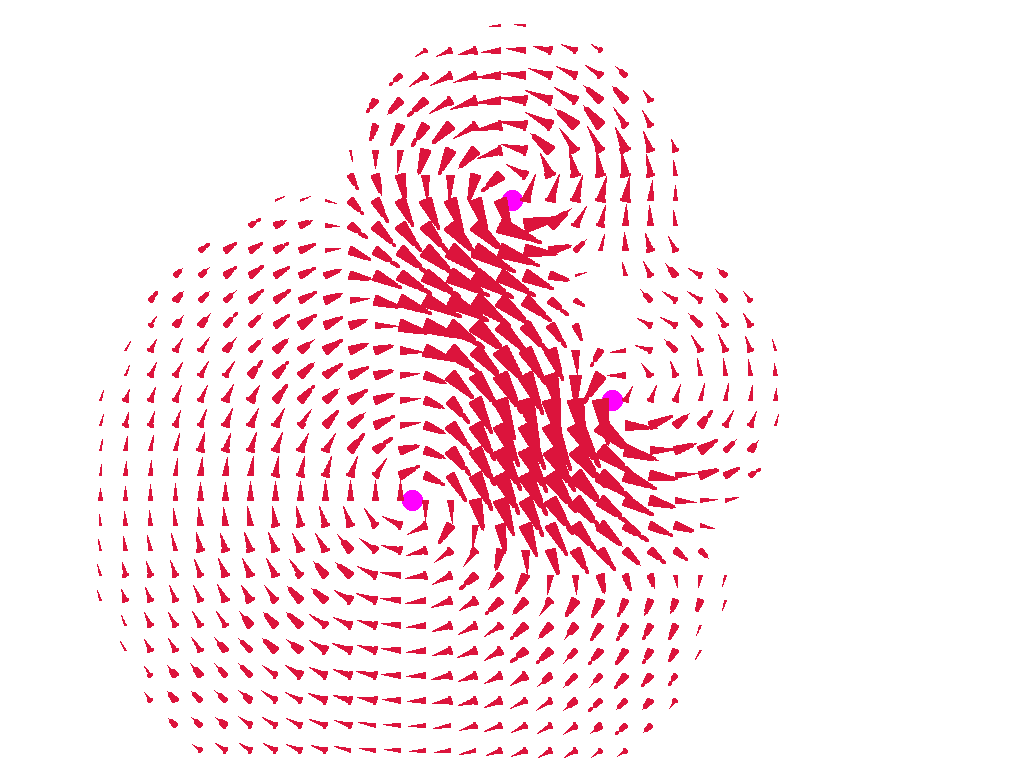
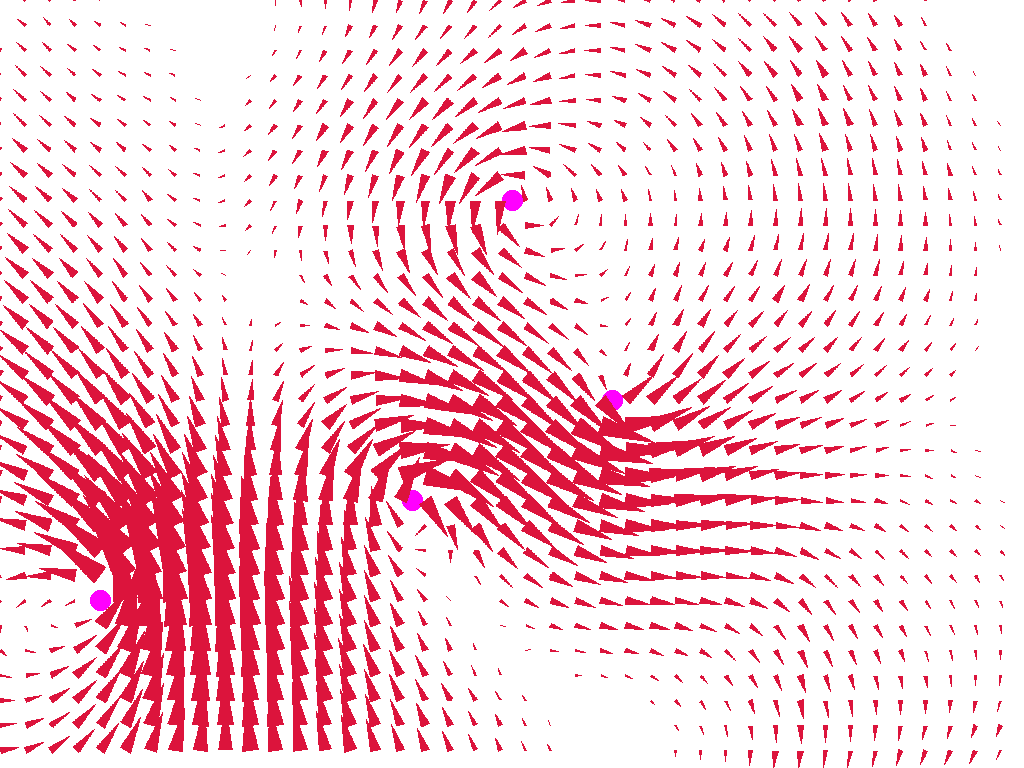
Пофиксил баг, из-за которого треугольники были похожи на хуи

diff --git a/lib/MathHelper.cs b/lib/MathHelper.cs
@@ -36,6 +36,11 @@ namespace lib
             return Tuple.Create(vec.Item1 * multiplier, vec.Item2 * multiplier);
         }
 
+        public static Tuple<double, double> Multiply(this Tuple<int, int> vec, double multiplier)
+        {
+            return Tuple.Create(vec.Item1 * multiplier, vec.Item2 * multiplier);
+        }
+
         public static Tuple<double, double> Divide(this Tuple<int, int> vec, double divider)
         {
             return Tuple.Create(vec.Item1 / divider, vec.Item2 / divider);
@@ -108,7 +113,7 @@ namespace lib
         {
             if (angle == 0)
                 return point;
-            var newAngle = (point.GetAngle() + angle) % (2*Math.PI);
+            var newAngle = (point.GetAngle() + angle) % (2 * Math.PI);
             var abs = point.GetAbs();
             return Tuple.Create((abs * Math.Cos(newAngle)).Round(), (abs * Math.Sin(newAngle)).Round());
         }
@@ -202,30 +207,17 @@ namespace lib
             return res.ToList();
         }
 
-        public static List<Tuple<int, int>> GetFilledTriangle(Tuple<int, int> a, Tuple<int, int> b, Tuple<int, int> c)
+        public static HashSet<Tuple<int, int>> GetFilledTriangle(Tuple<int, int> a, Tuple<int, int> b,
+            Tuple<int, int> c)
         {
-            var sorted = new[]
-                {
-                    Tuple.Create(EuclideanRange(a, b), GetLineSegment(a, b)),
-                    Tuple.Create(EuclideanRange(a, c), GetLineSegment(a, c)),
-                    Tuple.Create(EuclideanRange(b, c), GetLineSegment(b, c)),
-                }
-                .OrderBy(t => t.Item1)
-                .ToArray();
-            var side1 = sorted[1].Item2;
-            var side2 = sorted[2].Item2;
-            if (EuclideanRange(side1.First(), side2.First()) > EuclideanRange(side1.First(), side2.Last()))
-                side2.Reverse();
-            var small = side1.Count <= side2.Count ? side1 : side2;
-            var big = side1.Count > side2.Count ? side1 : side2;
-            HashSet<Tuple<int, int>> result = new HashSet<Tuple<int, int>>();
-            int i = 0;
-            for (; i < small.Count; i++)
-                result.UnionWith(GetLineSegment(small[i], big[i], 2));
-            for (; i < big.Count; i++)
-                result.UnionWith(GetLineSegment(small.Last(), big[i], 2));
-            var rs = result.OrderBy(t => t.Item1).ThenBy(t => t.Item2).ToList();
-            return rs;
+            var sideLengths = new[] {EuclideanRange(a, b), EuclideanRange(a, c), EuclideanRange(b, c)};
+            double quant = 1.0 / sideLengths.Max();
+            var res = new HashSet<Tuple<int, int>>();
+            for (double i = 0; i <= 1; i += quant)
+                for (double j = 0; j <= 1-i; j += quant)
+                    res.Add(a.Multiply(i).Plus(b.Multiply(j)).Plus(c.Multiply(1-i-j)).Round());
+            return res;
+
         }
     }
 }

diff --git a/GlobalMapGenerator/Program.cs b/GlobalMapGenerator/Program.cs
@@ -18,7 +18,7 @@ namespace GlobalMap
             var logRepository = LogManager.GetRepository(Assembly.GetEntryAssembly());
             XmlConfigurator.Configure(logRepository, new FileInfo("log4net.config"));
 
-            /*var map = MapGenerator.GenerateAltitudeMap(1024, 768, new DefaultEarthAltitude());
+            var map = MapGenerator.GenerateAltitudeMap(1024, 768, new DefaultEarthAltitude());
             map.Rivers.Add(map.GetCompatibleRiver(2));
             map.Rivers.Add(map.GetCompatibleRiver(2));
             map.Rivers.Add(map.GetCompatibleRiver(2));
@@ -30,29 +30,14 @@ namespace GlobalMap
             map.Rivers.Add(map.GetCompatibleRiver(4));
 
 
-            var arrow = new Arrow(10, 6, Color.Crimson);
-
-            var center = Tuple.Create(512, 384);
-            var circle = new Circle(25,Color.BlueViolet);
-            circle.DrawOn(map.AsBitmap, center, 0);
-            for (int r = 100; r <= 200; r += 25)
-            {
-                for (double phi = 1; phi <= 50; phi++)
-                {
-                    var angle = Math.PI * 2 * phi / 50;
-                    var point = Tuple.Create((int) (r * Math.Cos(angle)), (int) (r * Math.Sin(angle)))
-                        .Plus(center);
-                    arrow.DrawOn(map.AsBitmap, point, angle + Math.PI / 2);
-                }
-            }
-            map.AsBitmap.Save("NoiseMap.png");*/
+            map.AsBitmap.Save("NoiseMap.png");
             var b = new Bitmap(1024, 768);
             var cyc0 = new Cyclone
             {
                 Eye = 512.MakeTupleWith(200),
                 CounterClockwise = false,
-                Power = 30,
-                Range = 200
+                Power = 25,
+                Range = 500
             };
 
             var cyc1 = new Cyclone
@@ -60,17 +45,25 @@ namespace GlobalMap
                 Eye = 612.MakeTupleWith(400),
                 CounterClockwise = false,
                 Power = 30,
-                Range = 200
+                Range = 500
             };
 
             var cyc2 = new Cyclone
             {
                 Eye = 412.MakeTupleWith(500),
                 CounterClockwise = true,
-                Power = 20,
-                Range = 400,
+                Power = 40,
+                Range = 700,
             };
-            new WindMap(new List<Cyclone>{cyc0,cyc1,cyc2},1024,768).DrawOn(b);
+
+            var cyc3 = new Cyclone
+            {
+                Eye = 100.MakeTupleWith(600),
+                CounterClockwise = false,
+                Power = 40,
+                Range = 700,
+            };
+            new WindMap(new List<Cyclone>{cyc0,cyc1,cyc2,cyc3},1024,768).DrawOn(b);
             b.Save("WindMap.png");
         }
     }

diff --git a/GlobalMapGenerator/Weather/Wind.cs b/GlobalMapGenerator/Weather/Wind.cs
@@ -67,7 +67,7 @@ namespace GlobalMap.Weather
                 if (p.Equals(0.0.MakeTupleWith(0.0)))
                     continue;
                 var abs = p.GetAbs().Round();
-                if (abs < 10)
+                if (abs < 5)
                     continue;
                 new Arrow(abs, abs / 3, Color.Crimson).DrawOn(bitmap, x.MakeTupleWith(y),p.GetAngle());
             }
